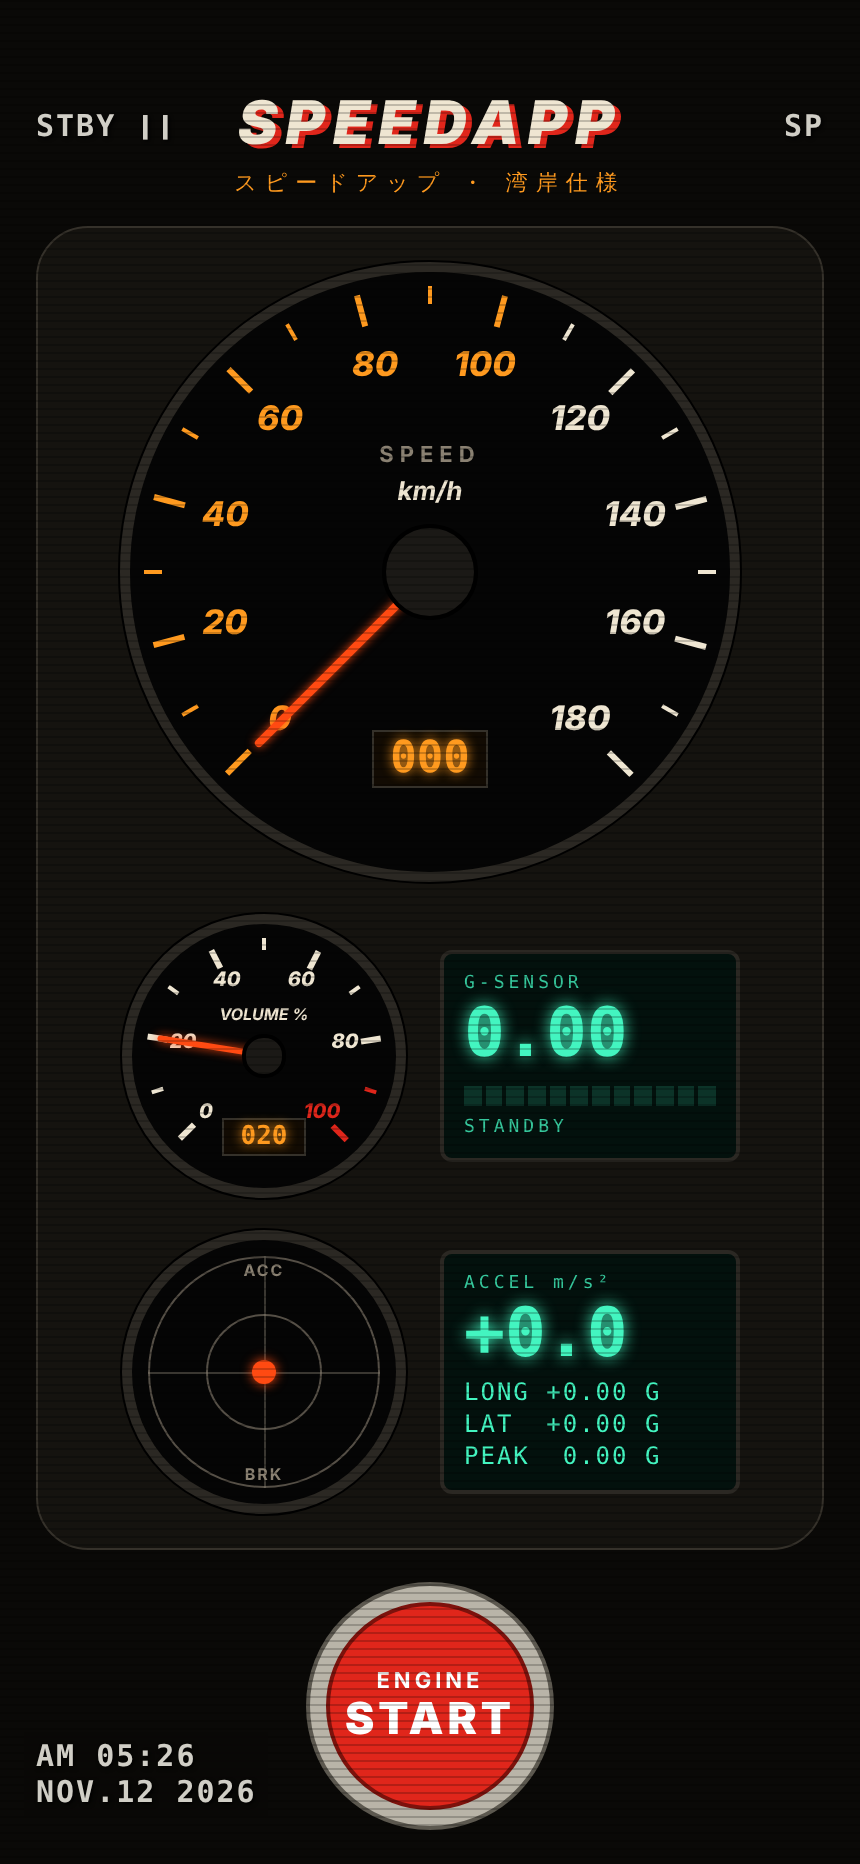
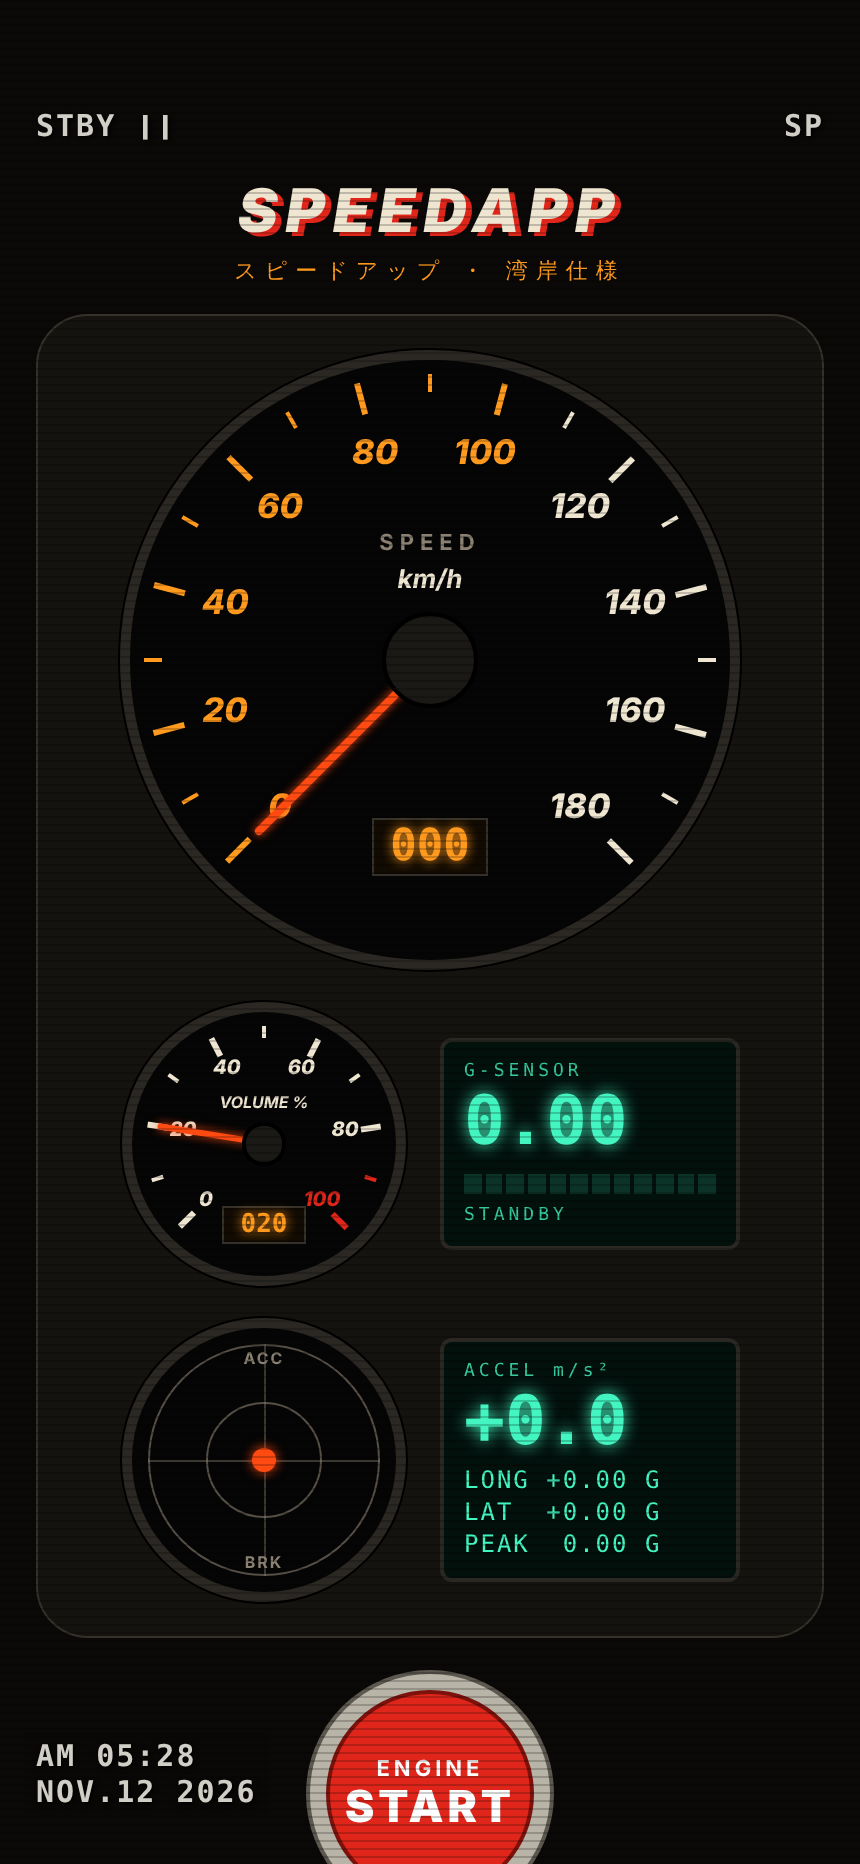
Fix bugs found in review
- Restore the phone's volume on Stop and glide from the current volume on Start
- Guard Start/Stop against double taps; clean up if Start fails midway
- Stop a location task left running by a previous launch
- Decay acceleration when GPS fixes go stale
- Convert speed limits when switching km/h <-> mph
- Replace deprecated SafeAreaView; memoize scanlines
- Drop unused expo-build-properties; cancel superseded CI builds

Claude-Session: https://claude.ai/code/session_01G4tNq8g86niq4jSNcdiu1p

diff --git a/App.js b/App.js
@@ -1,9 +1,9 @@
-import { useEffect, useState } from 'react';
-import { Platform, Pressable, SafeAreaView, ScrollView, StyleSheet, Text, View } from 'react-native';
+import { memo, useEffect, useRef, useState } from 'react';
+import { Platform, Pressable, ScrollView, StyleSheet, Text, View } from 'react-native';
 import { StatusBar } from 'expo-status-bar';
 import { useKeepAwake } from 'expo-keep-awake';
-import { DEFAULT_SETTINGS, G0, clamp, convertSpeed } from './src/volume';
-import { resetPeak, start, state, stop } from './src/engine';
+import { DEFAULT_SETTINGS, G0, clamp, convertRange, convertSpeed } from './src/volume';
+import { cleanupStale, resetPeak, start, state, stop } from './src/engine';
 
 // Palette: late-90s Japanese sports car cabin at night, taped on VHS.
 // Black gauge faces, warm white print, amber illumination, orange needles, green VFD.
@@ -90,6 +90,15 @@ function GBall({ size, lat, long }) {
   );
 }
 
+// Static, so memoized: the dash re-renders ~7x a second and must not rebuild 240 views each time.
+const Scanlines = memo(function Scanlines() {
+  return (
+    <View pointerEvents="none" style={StyleSheet.absoluteFill}>
+      {Array.from({ length: 240 }, (_, i) => <View key={i} style={s.scan} />)}
+    </View>
+  );
+});
+
 /** Camcorder on-screen display + scanlines: the whole thing is "taped". */
 function TapeOverlay({ running }) {
   const [now, setNow] = useState(new Date());
@@ -99,7 +108,7 @@ function TapeOverlay({ running }) {
   const blink = now.getSeconds() % 2 === 0;
   return (
     <View pointerEvents="none" style={StyleSheet.absoluteFill}>
-      {Array.from({ length: 240 }, (_, i) => <View key={i} style={s.scan} />)}
+      <Scanlines />
       <Text style={[s.osd, { top: 54, left: 18 }]}>{running ? `REC ${blink ? '●' : ' '}` : 'STBY ❙❙'}</Text>
       <Text style={[s.osd, { top: 54, right: 18 }]}>SP</Text>
       <Text style={[s.osd, s.osdStamp]}>
@@ -141,7 +150,10 @@ export default function App() {
   const [volume, setVolume] = useState(DEFAULT_SETTINGS.minVolume);
   const [error, setError] = useState(null);
 
-  state.settings = settings;
+  const busy = useRef(false);
+
+  useEffect(() => { state.settings = settings; }, [settings]);
+  useEffect(() => { cleanupStale(); }, []);
 
   // Refresh the on-screen numbers (the engine itself runs in src/engine.js).
   useEffect(() => {
@@ -151,14 +163,24 @@ export default function App() {
   }, []);
 
   async function toggle() {
+    if (busy.current) return; // ignore double taps while starting/stopping
+    busy.current = true;
     setError(null);
     try {
       if (running) { await stop(); setRunning(false); }
       else { await start(); setRunning(true); }
-    } catch (e) { setError(String(e.message ?? e)); }
+    } catch (e) {
+      await stop().catch(() => {}); // don't leave sensors half-started
+      setRunning(false);
+      setError(String(e.message ?? e));
+    } finally { busy.current = false; }
   }
 
   const set = (k) => (v) => setSettings((p) => ({ ...p, [k]: v }));
+  const switchUnit = () => setSettings((p) => {
+    const to = p.unit === 'kmh' ? 'mph' : 'kmh';
+    return { ...p, unit: to, ...convertRange(p.minSpeed, p.maxSpeed, to) };
+  });
   const unit = settings.unit;
   const shownSpeed = convertSpeed(speed, unit);
   const kmh = unit === 'kmh';
@@ -166,7 +188,7 @@ export default function App() {
   const pct = (v) => `${Math.round(v * 100)}%`;
 
   return (
-    <SafeAreaView style={s.safe}>
+    <View style={s.safe}>
       <StatusBar style="light" />
       <ScrollView contentContainerStyle={s.wrap}>
         <View style={s.topBar}>
@@ -220,7 +242,7 @@ export default function App() {
         </Pressable>
 
         <Heading jp="速度" en="SPEED RANGE" />
-        <Pressable style={s.row} onPress={() => set('unit')(kmh ? 'mph' : 'kmh')}>
+        <Pressable style={s.row} onPress={switchUnit}>
           <Text style={s.rowLabel}>UNITS</Text>
           <Text style={[s.rowValue, { minWidth: 120 }]}>{UNIT_LABEL[unit]} ⇄</Text>
         </Pressable>
@@ -240,13 +262,13 @@ export default function App() {
         </Text>
       </ScrollView>
       <TapeOverlay running={running} />
-    </SafeAreaView>
+    </View>
   );
 }
 
 const s = StyleSheet.create({
   safe: { flex: 1, backgroundColor: C.bg },
-  wrap: { padding: 18, paddingTop: 44, paddingBottom: 110 },
+  wrap: { padding: 18, paddingTop: 88, paddingBottom: 110 },
   scan: { height: 1, marginBottom: 3, backgroundColor: '#000', opacity: 0.2 },
   osd: { position: 'absolute', color: C.tape, fontFamily: MONO, fontSize: 15, fontWeight: '700', letterSpacing: 1, opacity: 0.85, textShadowColor: '#000', textShadowRadius: 2, textShadowOffset: { width: 1, height: 1 } },
 

diff --git a/src/engine.js b/src/engine.js
@@ -22,6 +22,7 @@ export const state = {
   settings: { ...DEFAULT_SETTINGS },
   lastSet: -1,
   lastTick: 0,
+  savedVolume: null, // phone volume before Start, restored on Stop
 };
 
 /** Recompute the target volume and apply it to the system volume. Safe to call often. */
@@ -30,6 +31,8 @@ export function tick() {
   const now = Date.now();
   if (now - state.lastTick < 150) return;
   state.lastTick = now;
+  // GPS went quiet (tunnel, lost signal): don't keep acting on a stale acceleration.
+  if (state.lastFix && now - state.lastFix > 3000) state.accel = smooth(state.accel, 0, 0.3);
   const target = targetVolume(convertSpeed(state.speed, state.settings.unit), state.g, state.settings);
   state.volume = smooth(state.volume, target, 0.25);
   if (Math.abs(state.volume - state.lastSet) >= 0.01) {
@@ -56,6 +59,14 @@ TaskManager.defineTask(TASK, ({ data, error }) => {
   }
 });
 
+/** Stop a location task left running by a previous launch (the UI always starts in standby). */
+export async function cleanupStale() {
+  if (state.running) return;
+  if (await Location.hasStartedLocationUpdatesAsync(TASK).catch(() => false)) {
+    await Location.stopLocationUpdatesAsync(TASK).catch(() => {});
+  }
+}
+
 let accSub = null;
 let motionSub = null;
 let timer = null;
@@ -67,6 +78,12 @@ export async function start() {
   await Location.requestBackgroundPermissionsAsync().catch(() => {});
 
   await VolumeManager.showNativeVolumeUI({ enabled: false }).catch(() => {});
+  const current = await VolumeManager.getVolume().catch(() => null);
+  if (current && typeof current.volume === 'number') {
+    state.savedVolume = current.volume;
+    state.volume = current.volume; // glide from where the phone is now, no jump
+  }
+  state.lastSet = -1;
   await Location.startLocationUpdatesAsync(TASK, {
     accuracy: Location.Accuracy.BestForNavigation,
     activityType: Location.ActivityType.AutomotiveNavigation,
@@ -103,6 +120,12 @@ export async function stop() {
   if (await Location.hasStartedLocationUpdatesAsync(TASK).catch(() => false)) {
     await Location.stopLocationUpdatesAsync(TASK);
   }
+  if (state.savedVolume != null) {
+    await VolumeManager.setVolume(state.savedVolume, { showUI: false }).catch(() => {});
+    state.volume = state.savedVolume;
+    state.savedVolume = null;
+  }
+  await VolumeManager.showNativeVolumeUI({ enabled: true }).catch(() => {});
   state.speed = 0; state.g = 0; state.accel = 0; state.latG = 0; state.lastFix = 0; state.hasMotion = false;
 }
 

diff --git a/src/volume.js b/src/volume.js
@@ -10,6 +10,14 @@ export function convertSpeed(ms, unit) {
   return ms * (unit === 'mph' ? MS_TO_MPH : MS_TO_KMH);
 }
 
+/** Convert the speed limits when switching units, snapped to the 5-unit steps the UI uses. */
+export function convertRange(minSpeed, maxSpeed, toUnit) {
+  const f = toUnit === 'mph' ? MS_TO_MPH / MS_TO_KMH : MS_TO_KMH / MS_TO_MPH;
+  const snap = (x) => Math.round((x * f) / 5) * 5;
+  const lo = Math.max(0, snap(minSpeed));
+  return { minSpeed: lo, maxSpeed: Math.max(lo + 5, snap(maxSpeed)) };
+}
+
 /** Dynamic g-force: how far total acceleration is from resting 1 g. */
 export function dynamicG({ x, y, z }) {
   return Math.abs(Math.sqrt(x * x + y * y + z * z) - 1);
